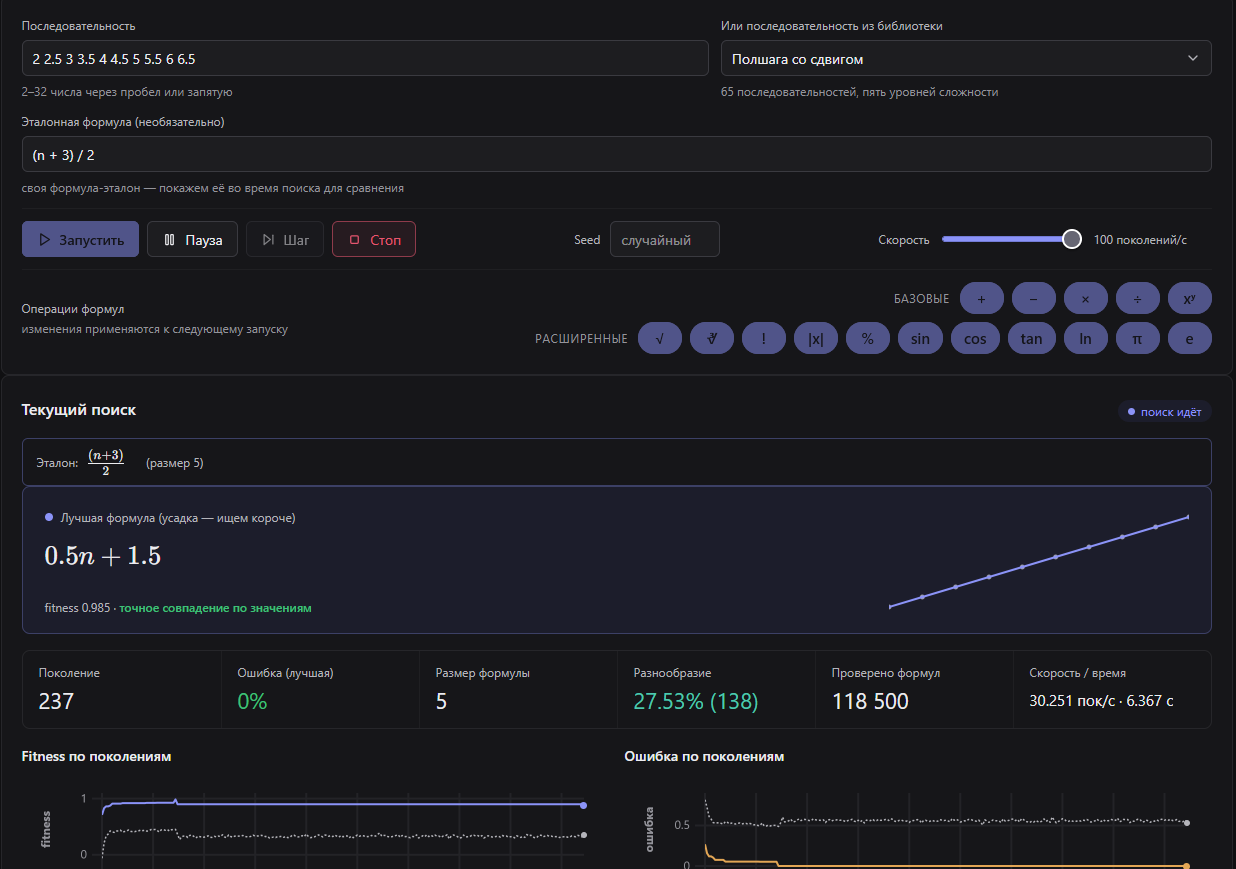
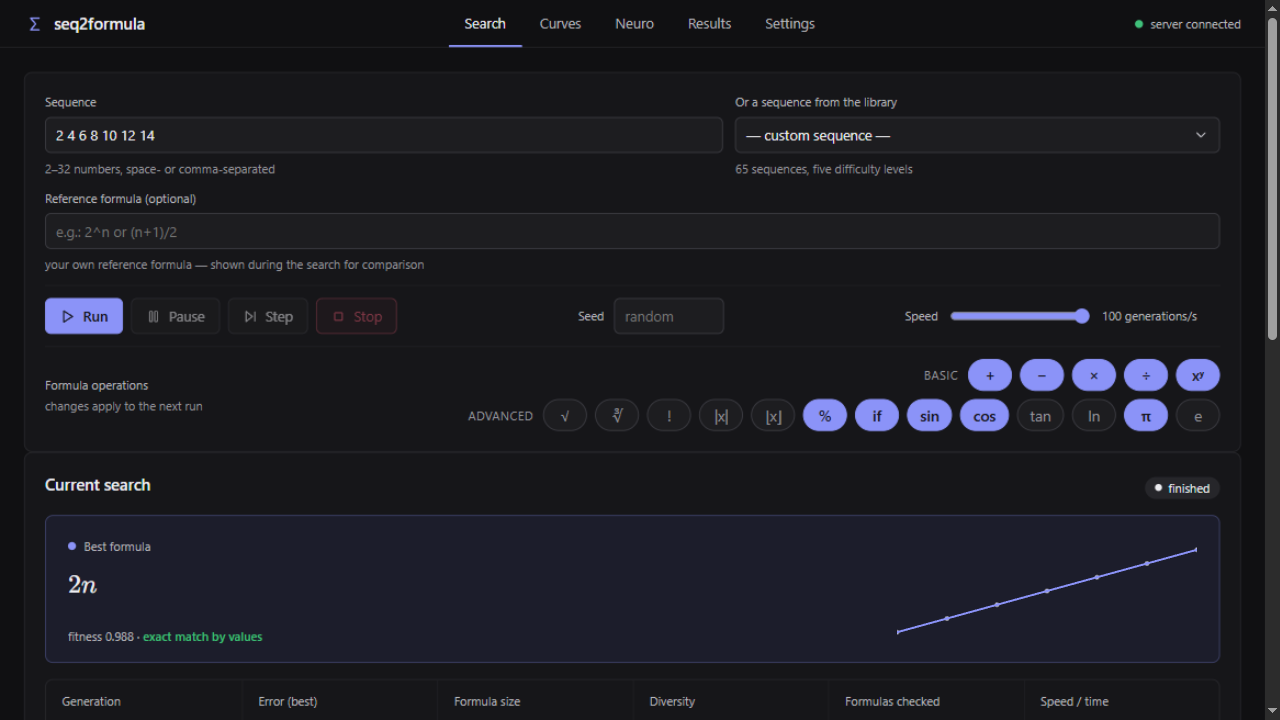
fix(i18n): translate remaining dynamic strings; refresh dashboard screenshots; add social preview

diff --git a/static/app.js b/static/app.js
@@ -22,7 +22,7 @@ const state = {
   lastLoggedBest: null,
   lastRunSolved: false,
   ops: new Set(["+", "-", "*", "/", "^"]),  // enabled binary operators
-  settings: null,          // engine knobs from /api/settings (Настройки tab)
+  settings: null,          // engine knobs from /api/settings (Settings tab)
   settingDefaults: null,
   lastTopUpdate: 0,        // throttle the top-10 list (100 gen/s is unreadable)
   lastLogGen: null,        // throttle the event feed
@@ -327,7 +327,7 @@ function makeCharts() {
                       values: (u, vals) => vals.map((v) => fmtNum(v)) }] },
     [[], [], []], $("chartCurveError"));
 
-  // curve mode: full stat parity with Поиск
+  // curve mode: full stat parity with Search
   state.charts.curveFitness = new uPlot({ ...common }, [[], [], []],
     $("chartCurveFitness"));
 
@@ -568,8 +568,8 @@ function updateHeroChart(values) {
 function updateEvoBtn() {
   const btn = $("evoBtn");
   btn.hidden = state.champions.length < 2;
-  btn.textContent = state.evoPlaying ? "Stop"
-    : `Эволюция (${state.champions.length})`;
+  btn.textContent = state.evoPlaying ? i18n.t("Stop")
+    : i18n.t("Evolution ({0})", state.champions.length);
 }
 
 function stopEvolutionPlayback(silent) {
@@ -607,7 +607,7 @@ function playEvolution() {
     renderKatex($("bestFormula"), astToLatex(ch.ast), true);
     updateHeroChart(ch.values);
     $("heroLabel").textContent =
-      `Эволюция ${i + 1}/${champs.length} · пок. ${ch.gen}`
+      i18n.t("Evolution {0}/{1} · gen. {2}", i + 1, champs.length, ch.gen)
       + (ch.error === null || ch.error === undefined ? "" : ` · ${fmtPercent(ch.error)}`);
     i += 1;
     if (i >= champs.length) stopEvolutionPlayback(false);
@@ -692,7 +692,7 @@ function renderTop(top) {
     
     const meta = document.createElement("span");
     meta.className = "race-meta num";
-    meta.textContent = `fit ${fmtNum(item.fitness)} · размер ${item.size}`;
+    meta.textContent = i18n.t("fit {0} · size {1}", fmtNum(item.fitness), item.size);
     meta.title = "Fitness = 1 - error - size_penalty. Closer to 1.0 is better.";
     li.appendChild(meta);
     list.appendChild(li);
@@ -763,7 +763,7 @@ function updateRaceLog(msg) {
     pushLogEntry({ pre: "exact match found", cls: "log-solved" });
   } else if (msg.solved && msg.best.exact && msg.best.size < state.lastExactSize) {
     pushLogEntry({
-      pre: "shrinking: a shorter formula —", text: `размер ${msg.best.size}`,
+      pre: i18n.t("shrinking: a shorter formula —"), text: i18n.t("size {0}", msg.best.size),
       cls: "log-shrink",
     });
   }
@@ -774,7 +774,7 @@ function updateRaceLog(msg) {
     if (!state.lastLogGen || msg.gen - state.lastLogGen >= 10) {
       pushLogEntry({
         pre: "new best:", latex: astToLatex(msg.best.ast),
-        text: `ошибка ${fmtPercent(msg.best.error)}`,
+        text: i18n.t("error {0}", fmtPercent(msg.best.error)),
       });
       state.lastLogGen = msg.gen;
     }
@@ -849,14 +849,16 @@ function applySolved(msg) {
   }
   pushLogEntry({
     pre: "solved:", latex: msg.formula ? astToLatex(msg.formula) : null,
-    text: `${msg.generations} поколений, ${fmtTime(msg.time_s)}`,
+    text: i18n.t("{0} generations, {1}", msg.generations, fmtTime(msg.time_s)),
     cls: "log-solved",
   });
   if (msg.formula) {
     renderKatex($("bestFormula"), astToLatex(msg.formula), true);
   }
   if (msg.formula_text) state.lastFormulaText = msg.formula_text;
-  const parts = [`Решено за ${msg.generations} поколений`];
+  const parts = [msg.generations === 1
+    ? i18n.t("Solved in 1 generation")
+    : i18n.t("Solved in {0} generations", msg.generations)];
   if (msg.time_s !== null) parts.push(fmtTime(msg.time_s));
   const note = $("solvedNote");
   note.classList.add("show");
@@ -954,7 +956,7 @@ function applyStatusMsg(msg) {
   }
 }
 
-/* ---------- curve mode («Кривые») ---------- */
+/* ---------- curve mode ---------- */
 
 /* Mirror of engine/curve.py SOLVE_ERROR: "solved" = mean two-sided
    distance below 2% of the unit square. */
@@ -1005,7 +1007,7 @@ function alongPath(vertices, n) {
 }
 
 /* One-stroke shape presets, same idea as the puzzle library in
-   «Результаты» but for curves. Coordinates: unit square, y down. */
+   Results but for curves. Coordinates: unit square, y down. */
 const CURVE_PRESETS = [
   { name: "Line", pts: alongPath([{ x: 0.12, y: 0.5 }, { x: 0.88, y: 0.5 }], 30) },
   { name: "Angle", pts: alongPath([{ x: 0.2, y: 0.15 }, { x: 0.2, y: 0.85 },
@@ -1181,11 +1183,11 @@ function resampleStroke(raw) {
 async function loadSavedDrawings() {
   const data = await api("/api/drawings");
   const sel = $("curveMySel");
-  sel.innerHTML = '<option value="">— загрузить фигуру —</option>';
+  sel.innerHTML = `<option value="">${i18n.t("— load a shape —")}</option>`;
   for (const d of data.drawings) {
     const opt = document.createElement("option");
     opt.value = String(d.id);
-    opt.textContent = `${d.name} (${d.strokes.length} штрихов)`;
+    opt.textContent = i18n.t("{0} ({1} strokes)", d.name, d.strokes.length);
     opt.dataset.strokes = JSON.stringify(d.strokes);
     sel.appendChild(opt);
   }
@@ -1284,7 +1286,7 @@ function initCurveCanvas() {
       return;
     }
     if (state.curveStrokes.length >= MAX_CURVE_STROKES) {
-      alertErr(`максимум ${MAX_CURVE_STROKES} штрихов`);
+      alertErr(i18n.t("maximum of {0} strokes", MAX_CURVE_STROKES));
       return;
     }
     canvas.setPointerCapture(e.pointerId);
@@ -1321,7 +1323,7 @@ function initCurveCanvas() {
     state.curveStroke = [];
     if (totalCurvePoints() + pts.length > MAX_CURVE_POINTS) {
       state.curveStrokes.pop();  // drop the stroke we opened
-      alertErr(`максимум ${MAX_CURVE_POINTS} точек цели`);
+      alertErr(i18n.t("maximum of {0} target points", MAX_CURVE_POINTS));
     } else {
       state.curveStrokes[state.curveStrokes.length - 1] = pts;
       state.curvePreset = null;  // hand-drawn now, not a preset
@@ -1500,7 +1502,7 @@ function applyCurveGen(msg) {
     renderCurveHero(msg.best);
   }
   const sub = [`fitness ${fmtNum(msg.best.fitness)}`];
-  if (msg.best.solved) sub.push('<span class="ok">порог взят</span>');
+  if (msg.best.solved) sub.push(`<span class="ok">${i18n.t("threshold beaten")}</span>`);
   $("curveSub").innerHTML = sub.join(" · ");
 
   // top-5 pairs: throttled like the sequence race list
@@ -1526,7 +1528,7 @@ function renderCurveHero(best) {
     if (multi) {
       const label = document.createElement("span");
       label.className = "curve-stroke-label";
-      label.textContent = `Штрих ${k + 1}:`;
+      label.textContent = i18n.t("Stroke {0}:", k + 1);
       box.appendChild(label);
     }
     const fx = document.createElement("div");
@@ -1565,13 +1567,13 @@ function renderCurveTop(top) {
     });
     const meta = document.createElement("span");
     meta.className = "race-meta num";
-    meta.textContent = `ошибка ${fmtPercent(item.error)} · разм ${item.size}`;
+    meta.textContent = i18n.t("error {0} · size {1}", fmtPercent(item.error), item.size);
     li.appendChild(meta);
     list.appendChild(li);
   });
 }
 
-/* Curve race log: same feed style as Поиск, curve-specific events. */
+/* Curve race log: same feed style as Search, curve-specific events. */
 function pushCurveLogEntry(parts) {
   parts.gen = state.lastGenNum;
   state.curveLog.unshift(parts);
@@ -1629,21 +1631,21 @@ function updateCurveRaceLog(msg) {
   if (msg.solved_now) {
     pushCurveLogEntry({ pre: "threshold met (error < 2%)", cls: "log-solved" });
   } else if (msg.new_best) {
-    // throttle like Поиск: a 100 gen/s run must not blur the feed
+    // throttle like Search: a 100 gen/s run must not blur the feed
     if (!state.lastCurveLogGen || msg.gen - state.lastCurveLogGen >= 10) {
       const multi = msg.best.x_text.length > 1;
       pushCurveLogEntry({
         pre: multi ? "new best pairs:" : "new best pair:",
         latex: `x(t)=${astToLatexT(astList(msg.best.x_ast)[0])},\\ y(t)=${astToLatexT(astList(msg.best.y_ast)[0])}`,
-        text: `ошибка ${fmtPercent(msg.best.error)}`
-          + (multi ? ` · штрихов ${msg.best.x_text.length}` : ""),
+        text: i18n.t("error {0}", fmtPercent(msg.best.error))
+          + (multi ? i18n.t(" · {0} strokes", msg.best.x_text.length) : ""),
       });
       state.lastCurveLogGen = msg.gen;
     }
   }
 }
 
-/* Per-t check table, the curve analog of «Проверка формулы по числам».
+/* Per-t check table, the curve analog of the formula check table.
    Single stroke: shows x(t), y(t) and the miss; several strokes: the
    miss averaged over the strokes (the formulas sit in the hero). */
 const CURVE_CHECK_TS = [0, 0.2, 0.4, 0.6, 0.8, 1];
@@ -1739,7 +1741,7 @@ function applyCurveSolved(msg) {
   }
   const note = $("curveNote");
   note.classList.add("show");
-  note.textContent = `Порог взят за ${msg.generations} поколений`
+  note.textContent = i18n.t("Threshold beaten in {0} generations", msg.generations)
     + (msg.time_s !== null && msg.time_s !== undefined
         ? ` · ${fmtTime(msg.time_s)}` : "");
   refreshAll();
@@ -1934,15 +1936,15 @@ async function loadPuzzles() {
     <input type="search" id="puzzleSearch" class="input puzzle-search" placeholder="Search sequences…">
     <div class="puzzle-filters">
       <select id="filterStatus" class="input puzzle-filter-select">
-        <option value="all">Все</option>
-        <option value="unsolved">Нерешённые</option>
-        <option value="solved">Решённые</option>
+        <option value="all">${i18n.t("All")}</option>
+        <option value="unsolved">${i18n.t("Unsolved")}</option>
+        <option value="solved">${i18n.t("Solved")}</option>
       </select>
       <select id="filterDiff" class="input puzzle-filter-select">
-        <option value="all" style="color: var(--text)">Любая</option>
-        <option value="easy" style="color: var(--positive)">Легко</option>
-        <option value="medium" style="color: var(--amber)">Средне</option>
-        <option value="hard" style="color: var(--negative)">Сложно</option>
+        <option value="all" style="color: var(--text)">${i18n.t("Any")}</option>
+        <option value="easy" style="color: var(--positive)">${i18n.t("Easy")}</option>
+        <option value="medium" style="color: var(--amber)">${i18n.t("Medium")}</option>
+        <option value="hard" style="color: var(--negative)">${i18n.t("Hard")}</option>
       </select>
     </div>
   `;
@@ -2118,9 +2120,9 @@ function updateOpsHint() {
     el.hidden = true;
     return;
   }
-  el.textContent = `для «${p.name}» требуются: ` +
+  el.textContent = i18n.t("\"{0}\" requires: ", p.name) +
     missing.map((t) => TOKEN_LABELS[t] || t).join(", ") +
-    " (currently disabled)";
+    i18n.t(" (currently disabled)");
   el.hidden = false;
 }
 
@@ -2141,7 +2143,7 @@ function renderReferenceNote(text, size) {
     meta.style.color = "var(--muted)";
     meta.style.fontSize = "12px";
     meta.title = "The exact formula size (counting sign complexity and number digits).";
-    meta.textContent = `(размер ${size})`;
+    meta.textContent = i18n.t("(size {0})", size);
     note.appendChild(meta);
   }
 }
@@ -2239,12 +2241,12 @@ async function loadLibrary() {
       const refSize = p.ref_size || 0;
       if (h.solved && h.size < refSize) {
         tr.classList.add("better-than-ref");
-        result.title = `Найдена формула короче эталона! (Размер ${h.size} против ${refSize})`;
+        result.title = i18n.t("A shorter formula than the reference was found! (Size {0} vs {1})", h.size, refSize);
         
         const badge = document.createElement("span");
         badge.className = "ref-badge";
         badge.textContent = i18n.t("shorter");
-        badge.title = `Короче эталона (${h.size} против ${refSize})`;
+        badge.title = i18n.t("Shorter than the reference ({0} vs {1})", h.size, refSize);
         result.appendChild(badge);
       }
       
@@ -2435,8 +2437,8 @@ async function loadCuriosities() {
   }
 }
 
-/* Shape presets table: best curve run per preset (like «Библиотека»,
-   but for the Кривые tab). Click = load the drawing onto the canvas. */
+/* Shape presets table: best curve run per preset (like the library,
+   but for the curve tab). Click = load the drawing onto the canvas. */
 async function loadShapes() {
   // the async body fills the DOM after awaits — translate after it settles
   setTimeout(() => { if (window.i18n && i18n.lang !== "en") i18n.apply(); }, 500);
@@ -2627,14 +2629,14 @@ async function loadStats() {
   const data = await api("/api/stats");
   const headline = $("statsHeadline");
   const tiers = $("statsTiers");
-  headline.textContent = `Решено ${data.solved} из ${data.total} последовательностей`;
+  headline.textContent = i18n.t("Solved {0} of {1} sequences", data.solved, data.total);
   tiers.innerHTML = "";
   for (const t of data.by_tier) {
     const cell = document.createElement("div");
     cell.className = "stats-tier" + (t.solved === t.total ? " done" : "");
     cell.dataset.tip = t.solved === t.total
       ? "Every sequence of this tier is solved"
-      : `Решено ${t.solved} из ${t.total} последовательностей этого уровня`;
+      : i18n.t("Solved {0} of {1} sequences at this level", t.solved, t.total);
     const name = document.createElement("span");
     name.className = "stats-tier-name";
     name.textContent = TIER_LABELS[t.tier] || `T${t.tier}`;
@@ -2643,7 +2645,7 @@ async function loadStats() {
     frac.textContent = `${t.solved}/${t.total}`;
     const gens = document.createElement("span");
     gens.className = "stats-tier-gens";
-    gens.textContent = t.avg_gens !== null ? `⌀ ${t.avg_gens} пок.` : "—";
+    gens.textContent = t.avg_gens !== null ? i18n.t("⌀ {0} gens", t.avg_gens) : "—";
     cell.append(name, frac, gens);
     tiers.appendChild(cell);
   }
@@ -2796,7 +2798,7 @@ const RESULT_META = {
   curio: "Almost-correct but bulky monsters — traces of evolution's wandering",
 };
 
-/* ---------- settings (Настройки tab) ---------- */
+/* ---------- settings (Settings tab) ---------- */
 
 const SETTING_FIELDS = [
   ["setPopulation", "population", "number"],
@@ -2845,7 +2847,7 @@ function applySpeedMax() {
   slider.max = String(max);
   if (Number(slider.value) > max) {
     slider.value = String(max);
-    $("speedValue").textContent = `${max} поколений/с`;
+    $("speedValue").textContent = i18n.t("{0} generations/s", max);
     setSpeed(max);
   }
 }
@@ -3179,7 +3181,7 @@ function bindControls() {
         $(t).setAttribute("aria-selected", String(t === tabId));
         $(b).hidden = t !== tabId;
       }
-      // the Курьёзы tab hosts two tables: sequence + curve curiosities
+      // the curiosities tab hosts two tables: sequence + curve curiosities
       $("curveCurioTable").hidden = tabId !== "tabCurio";
       $("resultsMeta").textContent = RESULT_META[metaKey];
       // reset the text search, but keep the dropdown filter
@@ -3195,7 +3197,7 @@ function bindControls() {
   }
   $("resultsMeta").textContent = RESULT_META.library;
 
-  // top-level page tabs: Поиск / Кривые / Результаты / Настройки
+  // top-level page tabs: Search / Curves / Results / Settings
   const panes = [["ptabSearch", "paneSearch"], ["ptabCurves", "paneCurves"],
                  ["ptabResults", "paneResults"],
                  ["ptabSettings", "paneSettings"]];

diff --git a/tools/ru_en_map.py b/tools/ru_en_map.py
@@ -438,20 +438,25 @@ MAP = {
     "Эволюция ({0})": "Evolution ({0})",
     "Эволюция {0}/{1} · пок. {2}": "Evolution {0}/{1} · gen. {2}",
     "{0} ({1} штрихов)": "{0} ({1} strokes)",
-    "максимум {0} штрихов": "max {0} strokes",
-    "максимум {0} точек цели": "max {0} target points",
+    "максимум {0} штрихов": "maximum of {0} strokes",
+    "максимум {0} точек цели": "maximum of {0} target points",
     "fit {0} · размер {1}": "fit {0} · size {1}",
     "{0} поколений, {1}": "{0} generations, {1}",
     "Решено за {0} поколений": "Solved in {0} generations",
     "Решено {0} из {1} последовательностей": "Solved {0} of {1} sequences",
     "Решено {0} из {1} последовательностей этого уровня":
-        "Solved {0} of {1} sequences of this tier",
+        "Solved {0} of {1} sequences at this level",
+    "Решено за 1 поколение": "Solved in 1 generation",
+    "ошибка {0} · разм {1}": "error {0} · size {1}",
+    "Порог взят за {0} поколений": "Threshold beaten in {0} generations",
+    "Штрих {0}:": "Stroke {0}:",
+    "(размер {0})": "(size {0})",
     "Найдена формула короче эталона! (Размер {0} против {1})":
-        "Found a formula shorter than the reference! (Size {0} vs {1})",
+        "A shorter formula than the reference was found! (Size {0} vs {1})",
     "Короче эталона ({0} против {1})":
         "Shorter than the reference ({0} vs {1})",
     "для «{0}» требуются: ": '"{0}" requires: ',
-    "⌀ {0} пок.": "⌀ {0} gen.",
+    "⌀ {0} пок.": "⌀ {0} gens",
     "{0} поколений/с": "{0} generations/s",
     " · штрихов {0}": " · {0} strokes",
 }
